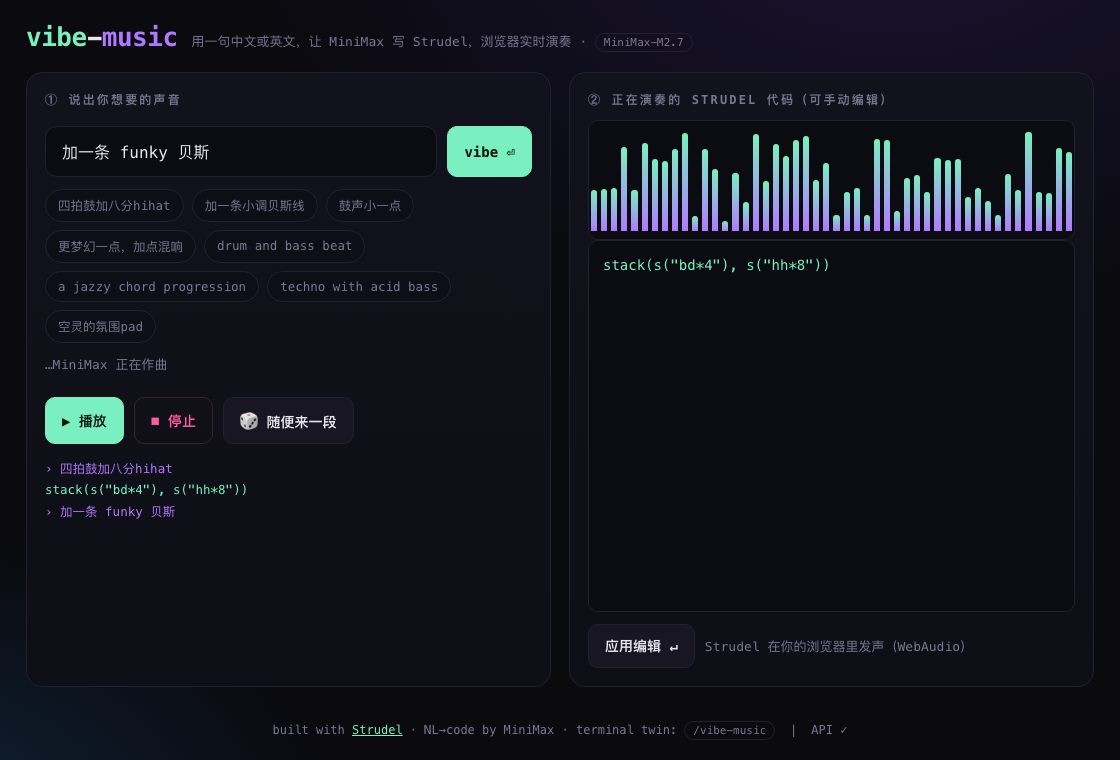
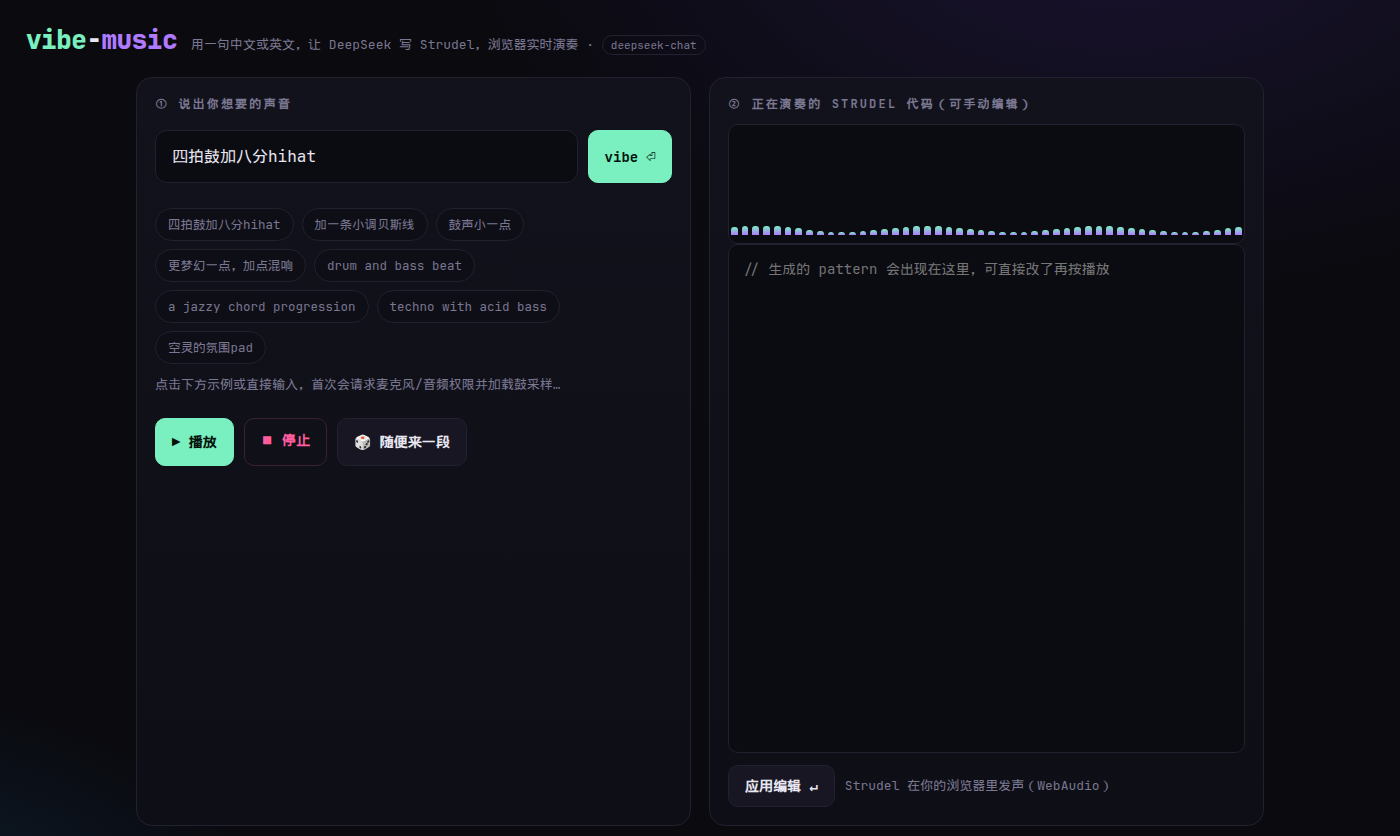
Switch vibe-web NL→Strudel to DeepSeek and tighten the README
Call DeepSeek Chat Completions from the shared generator, and point
the README, China deploy notes, and page copy at that provider.

diff --git a/vibe-web/design/mobile-flow.html b/vibe-web/design/mobile-flow.html
@@ -274,8 +274,8 @@
   <div class="rack"><div class="strip" id="strip"></div></div>
 
   <footer>
-    流程链路：空状态 → 一句话输入 → MiniMax 作曲 → 浏览器实时演奏(WebAudio) → 手动改代码热替换 → 停止/分享<br>
-    引擎 <a href="https://strudel.cc" target="_blank">Strudel</a> · NL→code by <span class="pill">MiniMax-M2.7</span> · 终端孪生 <span class="pill">/vibe-music</span> · 配色继承自真实 app
+    流程链路：空状态 → 一句话输入 → DeepSeek 作曲 → 浏览器实时演奏(WebAudio) → 手动改代码热替换 → 停止/分享<br>
+    引擎 <a href="https://strudel.cc" target="_blank">Strudel</a> · NL→code by <span class="pill">deepseek-chat</span> · 终端孪生 <span class="pill">/vibe-music</span> · 配色继承自真实 app
   </footer>
 
 <script>
@@ -294,7 +294,7 @@
   const vbars = (n=22)=>{let s='';for(let i=0;i<n;i++)s+='<i></i>';return `<div class="viz">${s}</div>`;};
 
   const STATUS = `<div class="statusbar"><span>9:41</span><span class="r">5G ▮▮▮ 100%</span></div>`;
-  const APPBAR = `<div class="appbar"><div class="l"><span class="a">vibe</span><span class="b">music</span></div><span class="chipx">MINIMAX-M2.7</span></div>`;
+  const APPBAR = `<div class="appbar"><div class="l"><span class="a">vibe</span><span class="b">music</span></div><span class="chipx">deepseek-chat</span></div>`;
 
   const SCREENS = [
     { idx:"01", nm:"空状态 · 起步", desc:"引擎未启动；提示框等待输入，示例 chip 引导第一句。",
@@ -314,10 +314,10 @@
           <div class="go hot">vibe ⏎</div>
         </div>
         <div class="chips"><span class="chip sel">四拍鼓加八分hihat</span><span class="chip">techno + acid</span><span class="chip">jazzy chords</span></div>
-        <div class="note">按 <b>vibe ⏎</b> 让 MiniMax 把这句话写成 Strudel 代码</div>
+        <div class="note">按 <b>vibe ⏎</b> 让 DeepSeek 把这句话写成 Strudel 代码</div>
         <div class="tbar"><div class="key pri mut">▶ 播放</div><div class="key sm">🎲</div></div>` },
 
-    { idx:"03", nm:"MiniMax 作曲中", desc:"提交后短暂等待；均衡器与日志显示作曲进度。",
+    { idx:"03", nm:"DeepSeek 作曲中", desc:"提交后短暂等待；均衡器与日志显示作曲进度。",
       body:`
         <div class="promptbox">
           <div class="field ph" style="opacity:.6">四拍鼓加八分hihat</div>
@@ -325,7 +325,7 @@
         </div>
         <div class="compose">
           <div class="speq"><i></i><i></i><i></i><i></i><i></i></div>
-          <div class="txt">正在作曲…<small>MINIMAX IS COMPOSING</small></div>
+          <div class="txt">正在作曲…<small>DEEPSEEK IS COMPOSING</small></div>
         </div>
         <div class="log"><span class="u">› 四拍鼓加八分hihat</span></div>
         <div class="note" style="margin-top:auto">引擎就绪 ✦ 几秒内出代码并自动开声</div>` },

diff --git a/vibe-web/index.html b/vibe-web/index.html
@@ -81,7 +81,7 @@
 <body>
   <header>
     <div class="logo"><b>vibe</b>-<i>music</i></div>
-    <div class="tag">用一句中文或英文，让 MiniMax 写 Strudel，浏览器实时演奏 · <span class="pill">MiniMax-M2.7</span></div>
+    <div class="tag">用一句中文或英文，让 DeepSeek 写 Strudel，浏览器实时演奏 · <span class="pill">deepseek-chat</span></div>
   </header>
 
   <div class="wrap">
@@ -114,14 +114,14 @@
   </div>
 
   <footer>
-    built with <a href="https://strudel.cc" target="_blank">Strudel</a> · NL→code by MiniMax ·
+    built with <a href="https://strudel.cc" target="_blank">Strudel</a> · NL→code by DeepSeek ·
     terminal twin: <span class="pill">/vibe-music</span> &nbsp;|&nbsp; <span id="status2"></span>
   </footer>
 
 <script>
   const $ = (id)=>document.getElementById(id);
   let started=false, playing=false, current='';
-  // phase: 'idle' | 'loading' (engine/samples) | 'composing' (MiniMax) | 'playing'
+  // phase: 'idle' | 'loading' (engine/samples) | 'composing' (DeepSeek) | 'playing'
   let phase='idle', phaseSince=performance.now();
   const EXAMPLES = [
     "四拍鼓加八分hihat","加一条小调贝斯线","鼓声小一点","更梦幻一点，加点混响",
@@ -138,7 +138,7 @@
 
   // One animation loop drives the equalizer for EVERY active phase — not just
   // playback. During composing/loading it shows a travelling sine "thinking"
-  // wave so the 3–5s MiniMax wait is never a dead screen (eval point #5).
+  // wave so the few seconds DeepSeek takes is never a dead screen (eval point #5).
   let frame=0;
   setInterval(()=>{
     frame++;
@@ -228,10 +228,10 @@
     if(!intent) return;
     // ---- INSTANT feedback (<100ms, fully synchronous, before any await) ----
     setPhase('composing');
-    setState('MiniMax 正在作曲<span class="dots"></span>（约 3–5 秒）');
+    setState('DeepSeek 正在作曲<span class="dots"></span>（约 3–5 秒）');
     $('vtext').textContent='正在作曲';
     logLine('<span class="u">› '+intent+'</span>');
-    // Load the audio engine IN PARALLEL with the MiniMax call so the first vibe
+    // Load the audio engine IN PARALLEL with the DeepSeek call so the first vibe
     // doesn't pay load-then-compose serially.
     ensureStarted();
     try{

diff --git a/vibe-web/api/vibe.js b/vibe-web/api/vibe.js
@@ -1,6 +1,7 @@
 // Vercel serverless function: natural-language intent (中文/English) -> Strudel code.
-// Thin adapter over the shared core (lib/vibe-core.mjs); the same core also powers
-// server.mjs for the mainland-China (Aliyun/Tencent) deploy.
+// Thin adapter over lib/vibe-core.mjs (DeepSeek Chat Completions). The same core
+// powers server.mjs for the mainland-China (Aliyun/Tencent) deploy.
+// Env (server-side only): DEEPSEEK_API_KEY required; optional DEEPSEEK_BASE_URL, DEEPSEEK_MODEL.
 import { generateStrudel } from '../lib/vibe-core.mjs';
 
 export default async function handler(req, res) {

diff --git a/README.md b/README.md
@@ -1,63 +1,73 @@
-# 🎛 vibe-music (strudel-vibe)
+# vibe-music
 
-Turn a sentence into live music. Type an intent in **中文 or English**, an LLM
-([MiniMax](https://www.minimaxi.com/)) writes [Strudel](https://strudel.cc) code,
-and your browser (or terminal) plays it immediately.
+[![Live demo](https://img.shields.io/badge/demo-live-22c55e)](https://vibe-web-gray.vercel.app)
+[![License](https://img.shields.io/badge/license-AGPL--3.0-blue)](#notes)
 
-> 打字就能做音乐 — 一句话 → MiniMax 写 Strudel 代码 → 浏览器/终端实时出声。
+**Type a sentence. Hear it.** Chinese or English in, [Strudel](https://strudel.cc) out, played in your browser. [DeepSeek](https://www.deepseek.com/) writes the pattern.
+
+> 打字就能做音乐 — 一句话 → DeepSeek 写 Strudel 代码 → 浏览器实时出声。
+
+**[Open the live demo](https://vibe-web-gray.vercel.app)** — nothing to install. Try `四拍鼓加八分hihat` or `a dreamy minor bassline`.
+
+![vibe-web: type a sentence, DeepSeek writes Strudel, the browser plays it](media/web-still.png)
+
+## Quick start
+
+### Use the demo
+
+[https://vibe-web-gray.vercel.app](https://vibe-web-gray.vercel.app)
+
+### Run the web app yourself
+
+The model key stays on the server. **Never commit it.**
+
+```bash
+export DEEPSEEK_API_KEY=...          # required
+# optional: DEEPSEEK_BASE_URL         # default https://api.deepseek.com
+# optional: DEEPSEEK_MODEL            # default deepseek-chat
+cd vibe-web && vercel dev             # international: Vercel
+# or a zero-dependency Node server (static files + /api/vibe):
+PORT=8080 node server.mjs             # mainland China: see vibe-web/DEPLOY-CN.md
+```
+
+On Vercel, set `DEEPSEEK_API_KEY` for the project (Production and Preview). `DEEPSEEK_BASE_URL` and `DEEPSEEK_MODEL` are optional.
+
+### Terminal (strudel-cli)
+
+```bash
+cd strudel-cli && npm install
+node bin/strudel.mjs start            # tmux live session (needs ffplay + tmux)
+node bin/strudel.mjs append 's("bd*4, hh*8")'
+```
+
+### Video (Remotion)
+
+```bash
+cd video && npm install
+npx remotion studio                   # preview
+npx remotion render ViralCNVertical out/vibe-rednote.mp4
+```
+
+Compositions: `ViralVertical`, `ViralLandscape`, `ViralCNVertical` (小红书竖版). Source clips and audio live in `video/public/`.
 
 ## Surfaces
 
 | Folder | What it is |
 |--------|------------|
-| **`vibe-web/`** | Static page + `/api/vibe`. Plays in the browser via [`@strudel/web`](https://www.npmjs.com/package/@strudel/web) (WebAudio). The engine (`vendor/`) and samples (`samples/`) are **vendored same-origin** — no unpkg / GitHub at runtime, so it works in mainland China once the page is reachable. Runs on Vercel (`vercel dev`) **or** as a zero-dependency Node server (`node server.mjs`) for an Aliyun/Tencent box. Live: **https://vibe-web-gray.vercel.app** · 国内部署见 [`vibe-web/DEPLOY-CN.md`](vibe-web/DEPLOY-CN.md) |
-| **`strudel-cli/`** | Terminal live-coding CLI: evaluates Strudel in plain Node, real-time software synth piped to `ffplay`, tmux live session (`append` / `set` / `hush` / `cps`). |
-| **`demo/`** | Playwright recorders that drive vibe-web and capture the **real WebAudio** output (the browser has no audio track + headless has no speakers, so the AudioContext is tapped and recorded). |
-| **`video/`** | [Remotion](https://www.remotion.dev/) project: viral / RedNote cuts of the demo with real captured audio + an audio-reactive spectrum. Plus `mobile-mock/` and `design-candidates/` — pure-HTML design explorations for the mobile app & video look. |
-| **`media/`** | Static images / assets. |
+| **`vibe-web/`** | The app visitors use. Static page + `/api/vibe`. Browser playback via vendored [`@strudel/web`](https://www.npmjs.com/package/@strudel/web) (WebAudio). Engine (`vendor/`) and samples (`samples/`) are **same-origin** — no unpkg or GitHub at runtime. Vercel, or `node server.mjs` on an Aliyun/Tencent box. **Live:** [vibe-web-gray.vercel.app](https://vibe-web-gray.vercel.app) · 国内部署见 [`vibe-web/DEPLOY-CN.md`](vibe-web/DEPLOY-CN.md) |
+| **`strudel-cli/`** | Terminal live-coding: Strudel in plain Node, software synth to `ffplay`, tmux session (`append` / `set` / `hush` / `cps`). |
+| **`demo/`** | Playwright recorders that drive vibe-web and capture the **real WebAudio** output. |
+| **`video/`** | [Remotion](https://www.remotion.dev/) cuts (viral / 小红书) with captured audio and an audio-reactive spectrum. `mobile-mock/` and `design-candidates/` are HTML look explorations. |
+| **`media/`** | Stills and GIFs, including the one above. |
 
-## Quick start
+## Share it
 
-### Web (vibe-web)
-Needs a MiniMax key as an environment variable — **never commit it**:
-
-```bash
-export MINIMAX_API_KEY=...        # required
-# optional: MINIMAX_BASE_URL, MINIMAX_MODEL
-cd vibe-web && vercel dev          # international: Vercel
-# or, mainland-China host (zero deps, serves static + /api/vibe):
-PORT=8080 node server.mjs          # see DEPLOY-CN.md for ICP + Aliyun/Tencent + HTTPS
-```
-
-### Terminal (strudel-cli)
-```bash
-cd strudel-cli && npm install
-node bin/strudel.mjs start          # tmux live session (needs ffplay + tmux)
-node bin/strudel.mjs append 's("bd*4, hh*8")'
-```
-
-### Video (Remotion)
-```bash
-cd video && npm install
-npx remotion studio                 # preview
-npx remotion render ViralCNVertical out/vibe-rednote.mp4
-```
-Compositions: `ViralVertical`, `ViralLandscape`, `ViralCNVertical` (小红书竖版).
-Source clips/audio live in `video/public/`.
-
-## Design explorations
-- `video/mobile-mock/index.html` — 3 mobile-first app layouts (Chat / Player / Bold)
-- `video/mobile-mock/douyin.html` — 3 抖音-style layouts (black + cyan/red glitch, collapsible code, scrolling feed)
-- `video/design-candidates/index.html` — 9 video visual directions
-
-Open any of them in a browser to see the animated mock loop.
+Send someone the demo link. If a prompt comes back as bad Strudel, open an issue with the sentence you typed (not your API key) — that is the most useful bug report.
 
 ## Notes
-- The vendored upstream **Strudel** monorepo is intentionally **not** included
-  (it's a separate AGPL project; nothing here imports it). Get it from
-  [tidalcycles/strudel](https://github.com/tidalcycles/strudel) if you want it.
-- `vibe-web` spends MiniMax tokens per request — keep your key private.
 
-## License
-Strudel is AGPL-3.0; this project's glue code follows suit. See upstream Strudel
-for its full license.
+- Upstream **Strudel** is AGPL-3.0 and is **not** vendored here (nothing in this repo imports the Strudel monorepo). The engine bundle in `vibe-web/vendor/` is the published `@strudel/web` build. Get the source from [tidalcycles/strudel](https://github.com/tidalcycles/strudel). This project's glue follows AGPL-3.0 as well.
+- Drum and melodic samples in `vibe-web/samples/` are vendored so the page works without GitHub or unpkg. See `samples/strudel.json`.
+- Mainland China cannot reliably open `*.vercel.app`. Deploy with [`vibe-web/DEPLOY-CN.md`](vibe-web/DEPLOY-CN.md) (ICP + Aliyun/Tencent + HTTPS).
+- Each web request spends DeepSeek tokens. Keep `DEEPSEEK_API_KEY` in the host environment only.
+- The terminal `translate` command is a separate path and still calls MiniMax. See [`strudel-cli/README.md`](strudel-cli/README.md). The browser app does not.

diff --git a/vibe-web/evals.md b/vibe-web/evals.md
@@ -1,7 +1,7 @@
 # evals.md — vibe·music mobile flow user stories
 
 > Source: 20 yes/no UX decisions collected against `design/mobile-flow.html`
-> (flow: 01 empty → 02 input → 03 MiniMax composing → 04 live play → 05 edit → 06 stop/share).
+> (flow: 01 empty → 02 input → 03 DeepSeek composing → 04 live play → 05 edit → 06 stop/share).
 > Format: `/user-stories`. Each story is independently deliverable with testable acceptance criteria.
 > Decision legend: ✅ = decided IN, ❌ = decided OUT (kept here as explicit Out-of-Scope guardrails).
 
@@ -69,7 +69,7 @@
 
 **Acceptance Criteria:**
 - Given a non-empty prompt, When I press the keyboard Enter key, Then composition is triggered (same as tapping vibe ⏎). *(#3=Yes)*
-- Given a Chinese, English, or mixed prompt, When I submit, Then it is accepted and sent to MiniMax without language restriction. *(#4=Yes)*
+- Given a Chinese, English, or mixed prompt, When I submit, Then it is accepted and sent to DeepSeek without language restriction. *(#4=Yes)*
 - Given a non-empty prompt, When the field has content, Then the vibe button shows its active/"hot" state.
 
 **Edge Cases:**
@@ -81,17 +81,17 @@
 ---
 
 ### Story 3: Wait through composition with a calm composing state
-**Story:** As a user who just submitted, I want a clear "composing" indicator, so that I know MiniMax is working and the app didn't freeze.
+**Story:** As a user who just submitted, I want a clear "composing" indicator, so that I know DeepSeek is working and the app didn't freeze.
 
 **Priority:** Must-have · **Size:** S
 
 **Acceptance Criteria:**
-- Given a submitted prompt, When MiniMax is composing, Then a composing animation (equalizer) is shown **without** a streaming token/progress log. *(#5=No)*
+- Given a submitted prompt, When DeepSeek is composing, Then a composing animation (equalizer) is shown **without** a streaming token/progress log. *(#5=No)*
 - Given composition is in flight, When the user views the screen, Then **no** cancel/abort control is presented; composition runs to completion. *(#6=No)*
 - Given composition completes, When code is ready, Then the app transitions automatically to the live-play screen (04).
 
 **Edge Cases:**
-- What happens when MiniMax errors or times out? (Show an error state with a way to re-submit — there is no cancel, but a failed run must not strand the user.)
+- What happens when DeepSeek errors or times out? (Show an error state with a way to re-submit — there is no cancel, but a failed run must not strand the user.)
 - What happens if the user backgrounds the app mid-compose? (On return, either show result or the error/retry state.)
 
 **Notes:** No log + no cancel = the composing state must feel short and trustworthy. Keep it visually alive (equalizer) so the absence of detail doesn't read as a stall.
@@ -206,7 +206,7 @@ Pick A or B with the user before implementation. This story assumes **(A)** unti
 - S8 reproducibility reuses S6's load-from-encoded-pattern path.
 
 **External / technical:**
-- MiniMax-M2.7 NL→Strudel endpoint (powers S3/S4).
+- deepseek-chat NL→Strudel endpoint (powers S3/S4).
 - Strudel/WebAudio runtime for playback + hot-reload (S4/S5).
 - Browser autoplay/user-gesture policy (S4, S6 shared links).
 - Persistence layer for S7 theme choice and S8 library (and possibly S6 links).
@@ -227,4 +227,4 @@ Pick A or B with the user before implementation. This story assumes **(A)** unti
 
 1. **S5 conflict:** Is generated code read-only with controlled edits (model A) or freely editable (model B)? Everything in S5 hinges on this.
 2. **S6/S8 persistence:** Local-only or account-backed? Determines cross-device behavior and share-link longevity.
-3. **S3 failure UX:** With no cancel and no log, what exactly does a MiniMax timeout/error show?
+3. **S3 failure UX:** With no cancel and no log, what exactly does a DeepSeek timeout/error show?
